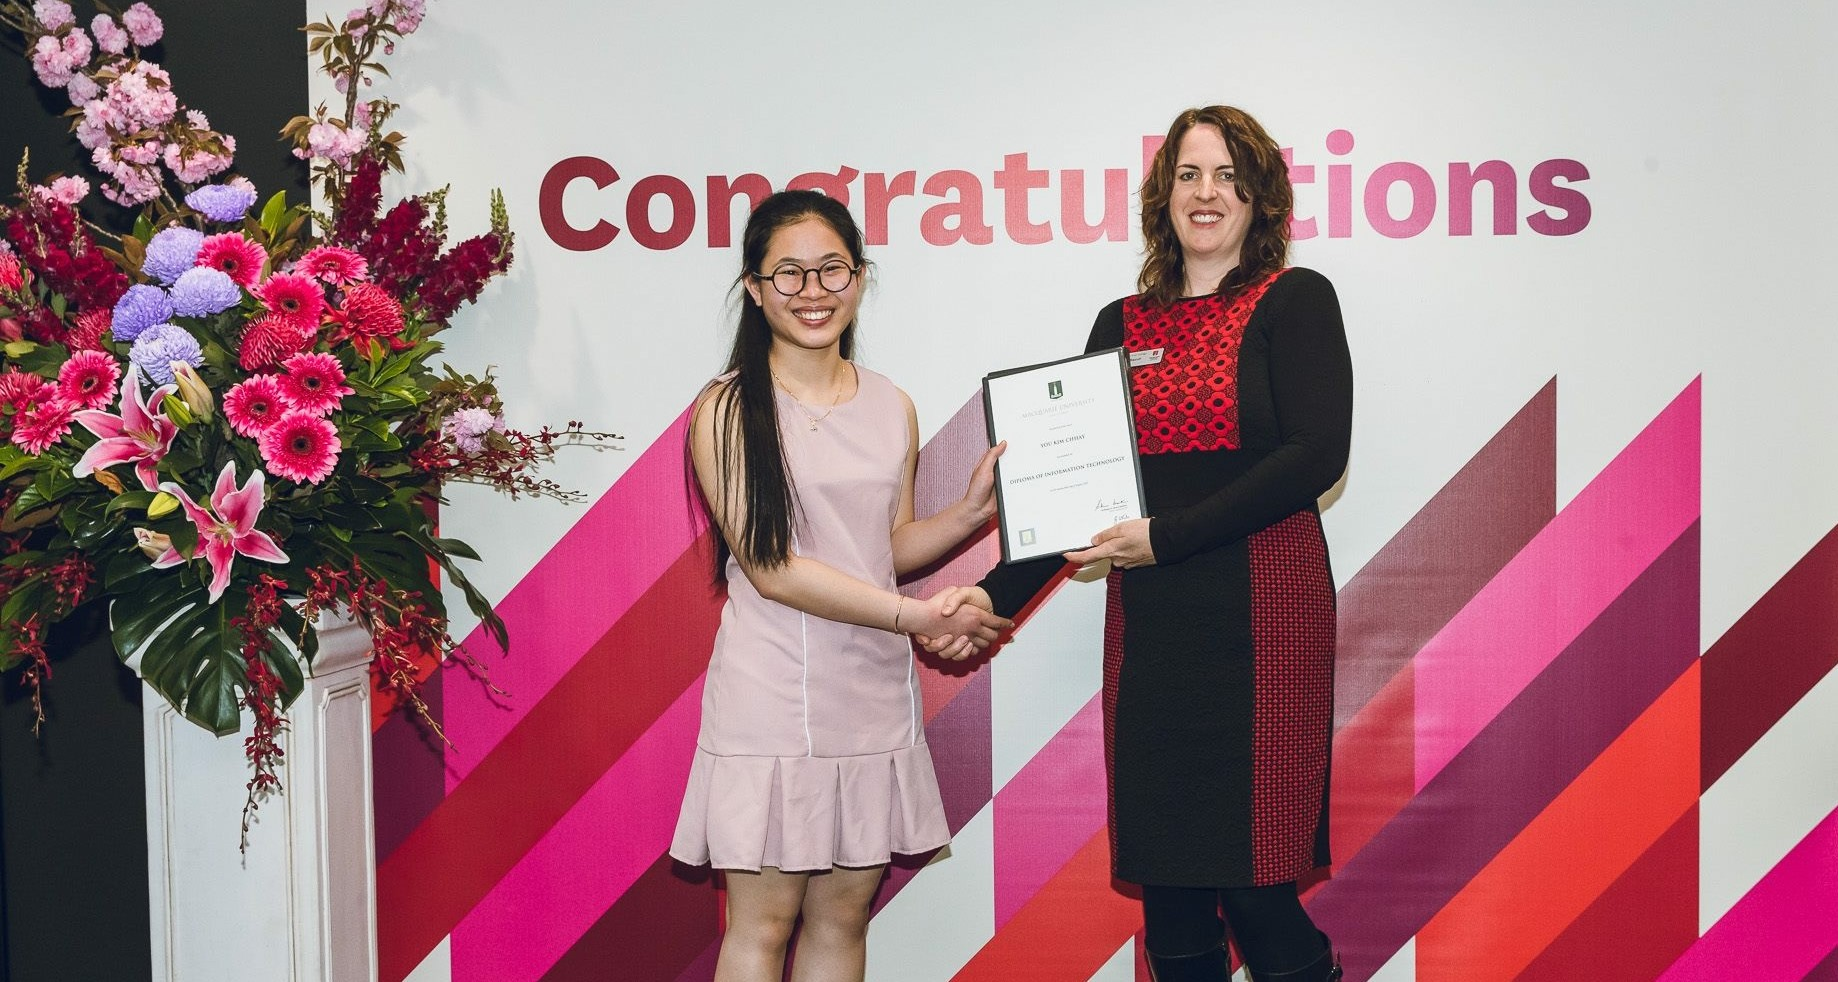
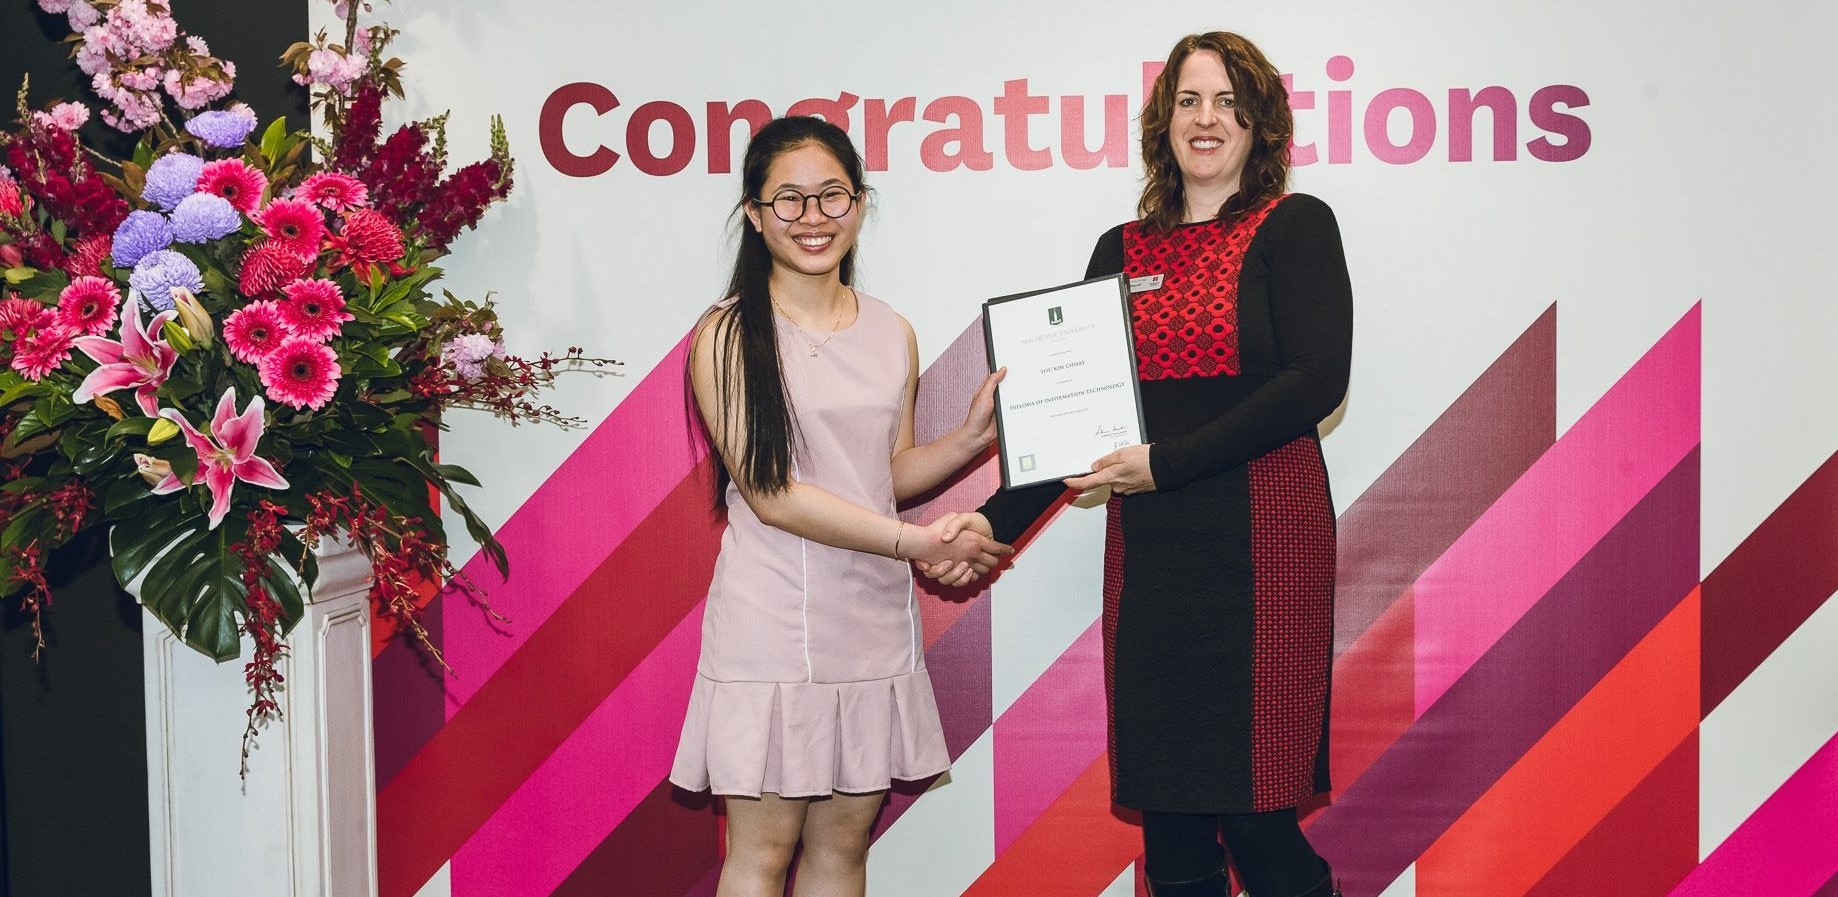
edit hero image and fix header nav and hero

diff --git a/assets/css/style.css b/assets/css/style.css
@@ -14,25 +14,17 @@ header {
     display: flex;
     justify-content: space-between;
     flex-wrap: wrap;
-    background-image: url(../images/hero.jpg);
-    background-size: cover;
-    background-position: center;
-    background-attachment: fixed;
     border-bottom: 1px solid rgba(238, 59, 89, 0.7);
+    background: linear-gradient(rgba(255,153,153,0.5), rgba(192,192,192, 0.5));
 }
 
 header h1 a {
     font-weight: bold;
     font-size: 36px;
-    background-color: rgb(238, 59, 89);
-    color: white;
+    color: rgb(238, 59, 89);
     border-radius: 15px;
     padding: 10px;
     margin: 0;
-}
-
-header h1 a:hover {
-    opacity: 0.7;
 }
 
 header a {
@@ -62,7 +54,7 @@ header nav ul li a {
     color: rgb(238, 59, 89);
 }
 
-header nav ul li a:hover {
+header h1 a:hover, header nav ul li a:hover {
     background-color: rgb(238, 59, 89);
     color: white;
     border-radius: 15px;
@@ -78,8 +70,7 @@ header nav ul li a:hover {
 .hero {
     background-image: url(../images/hero.jpg);
     background-size: cover;
-    background-position: center;
-    background-attachment: fixed;
+    background-position: center top;
     height: 550px;
     display: flex;
     flex-wrap: wrap;
